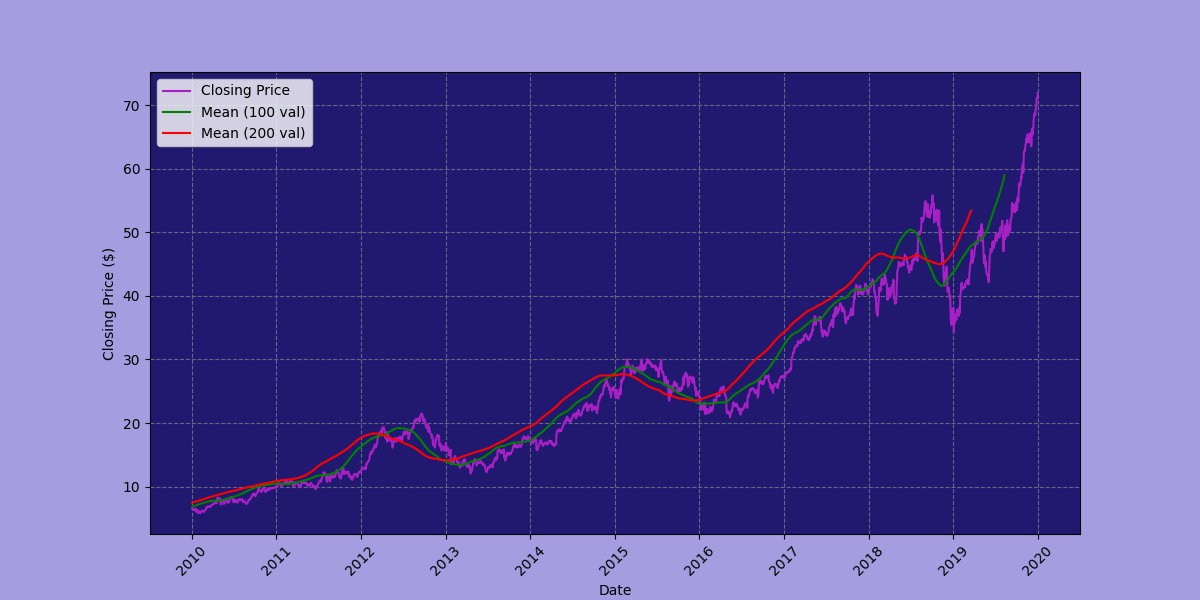
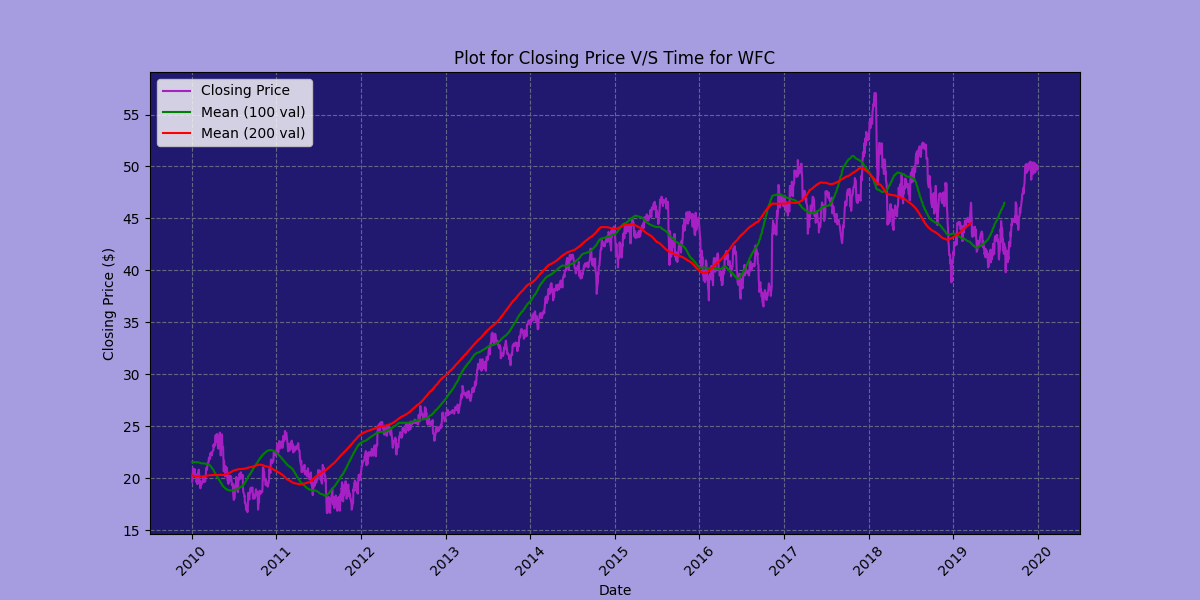
Update: Added and updated Readme

diff --git a/final_project/stock_frontend/public/index.html b/final_project/stock_frontend/public/index.html
@@ -11,7 +11,7 @@
 
   <link rel="manifest" href="%PUBLIC_URL%/manifest.json" />
 
-  <title>React App</title>
+  <title>Stock Market Predictor</title>
 </head>
 
 <body>

diff --git a/final_project/app.py b/final_project/app.py
@@ -20,7 +20,7 @@ from tensorflow.python.keras.layers import Dense, Flatten, GlobalAveragePooling2
 import tensorflow.compat.v2 as tf
 from flask import Flask, request
 
-input_data=''
+input_data_company=''
 app = Flask(__name__)
 
 @app.route('/api/process-data', methods=['POST'])
@@ -30,8 +30,8 @@ def process_data():
 
     input_data = data.get('inputData')
 
-if input_data is None or input_data=='':
-    input_data = "AAPL"
+if input_data_company is None or input_data_company=='':
+    input_data_company = "AAPL"
 
 keras.initializers.Orthogonal(gain=1.0, seed=None)
 
@@ -43,7 +43,7 @@ end = '2019-12-31'
 
 # Page Layout
 st.set_page_config(
-    page_title="Stock-Prediction System",
+    page_title="Stock Market Predictor",
     layout="centered"
 )
 
@@ -52,7 +52,7 @@ st.title('Stock Trend Prediction')
 
 
 # Taking input from user.
-user_input = st.text_input('Enter Stock Ticker', input_data)
+user_input = st.text_input('Enter Stock Ticker', input_data_company)
 df = web.DataReader(user_input, 'stooq', start, end)
 
 
@@ -268,7 +268,7 @@ with tab2:
     plt.plot(ma100, 'g', label='Mean (100 val)')
     # this is the mean of 200 values
     plt.plot(ma200, 'r', label='Mean (200 val)')
-    
+    plt.title(f"Plot for Closing Price V/S Time for {user_input}")
     plt.legend()
     plt.xlabel('Date')
     plt.ylabel('Closing Price ($)')
@@ -324,7 +324,7 @@ with tab2:
     plt.plot(y_test, 'g', label="Original price")
     plt.plot(y_predicted, 'r', label="Predicted price")
 
-    plt.title("Plot between Original and Predicted Stock Price")
+    plt.title(f"Plot between Original and Predicted Stock Price for {user_input}")
     plt.xlabel('No of Days')
     plt.ylabel('Stock Price($)')
     plt.legend()

diff --git a/README.md b/README.md
@@ -1,6 +1,5 @@
 # Stock Prediction System
 
-
 Stock predictor analysis involves using various techniques, including statistical analysis, machine learning, and predictive modeling, to forecast future stock prices based on historical data. The primary objective of stock predictor analysis is to provide investors and traders with insights into potential price movements, helping them make more informed decisions about buying, selling, or holding stocks.
 
 1. **Data Collection**: The first step in stock predictor analysis is gathering historical stock data, including prices (e.g., opening, closing, high, low), trading volumes, and other relevant metrics. Data can be sourced from financial databases, APIs provided by stock exchanges, or financial news websites.
@@ -21,16 +20,11 @@ Stock predictor analysis involves using various techniques, including statistica
 
 ## Stock predictor and data analysis
 
-
-
-
-
 ### Model Used
 
 1. Scikit Learnng
 2. Matplotlib
-3. 
-
+3.
 
 - Debasish Side Command for pushing
 
@@ -60,7 +54,6 @@ git commit -m "First commit"
 git push origin main
 ```
 
-
 - Utkarsh Side Command for pulling
 
 ```
@@ -78,7 +71,6 @@ git commit -m "First commit"
 git push origin main
 ```
 
-
 - Amal Side Command for pulling
 
 ```
@@ -89,3 +81,9 @@ git pull origin main
 
 - If we make change in style.css file 2nd time. Then, git commit -m "style.css: update2"
 - If we make change in style.css file 3rd time. Then, git commit -m "style.css: update3"
+
+To Access frontend side of project, cd into Utkarsh Test.
+
+To Access backend side of project, cd into Debasish Test and Amal Test.
+
+To Access and run project as a whole, cd into final_project.

diff --git a/final_project/README to run project.md b/final_project/README to run project.md
@@ -1,0 +1,22 @@
+Start by running backend server using
+
+```
+streamlit run app.py
+```
+
+Then, to run frontend side, cd into stock_frontend.
+
+Run the frontend using
+
+```
+npm run start
+```
+
+NOTE: If you cloned the repo and are running the project for the first time, you need to first run `npm install` and then the above command. So, in this case the code will become:
+
+```
+npm install
+npm run start
+```
+
+Point to be considered: This project is still in development. As of now, the backend and frontend are halfway connected. So, you can enter company's stock market code into the backend search and the graph will get updated in frontend.
